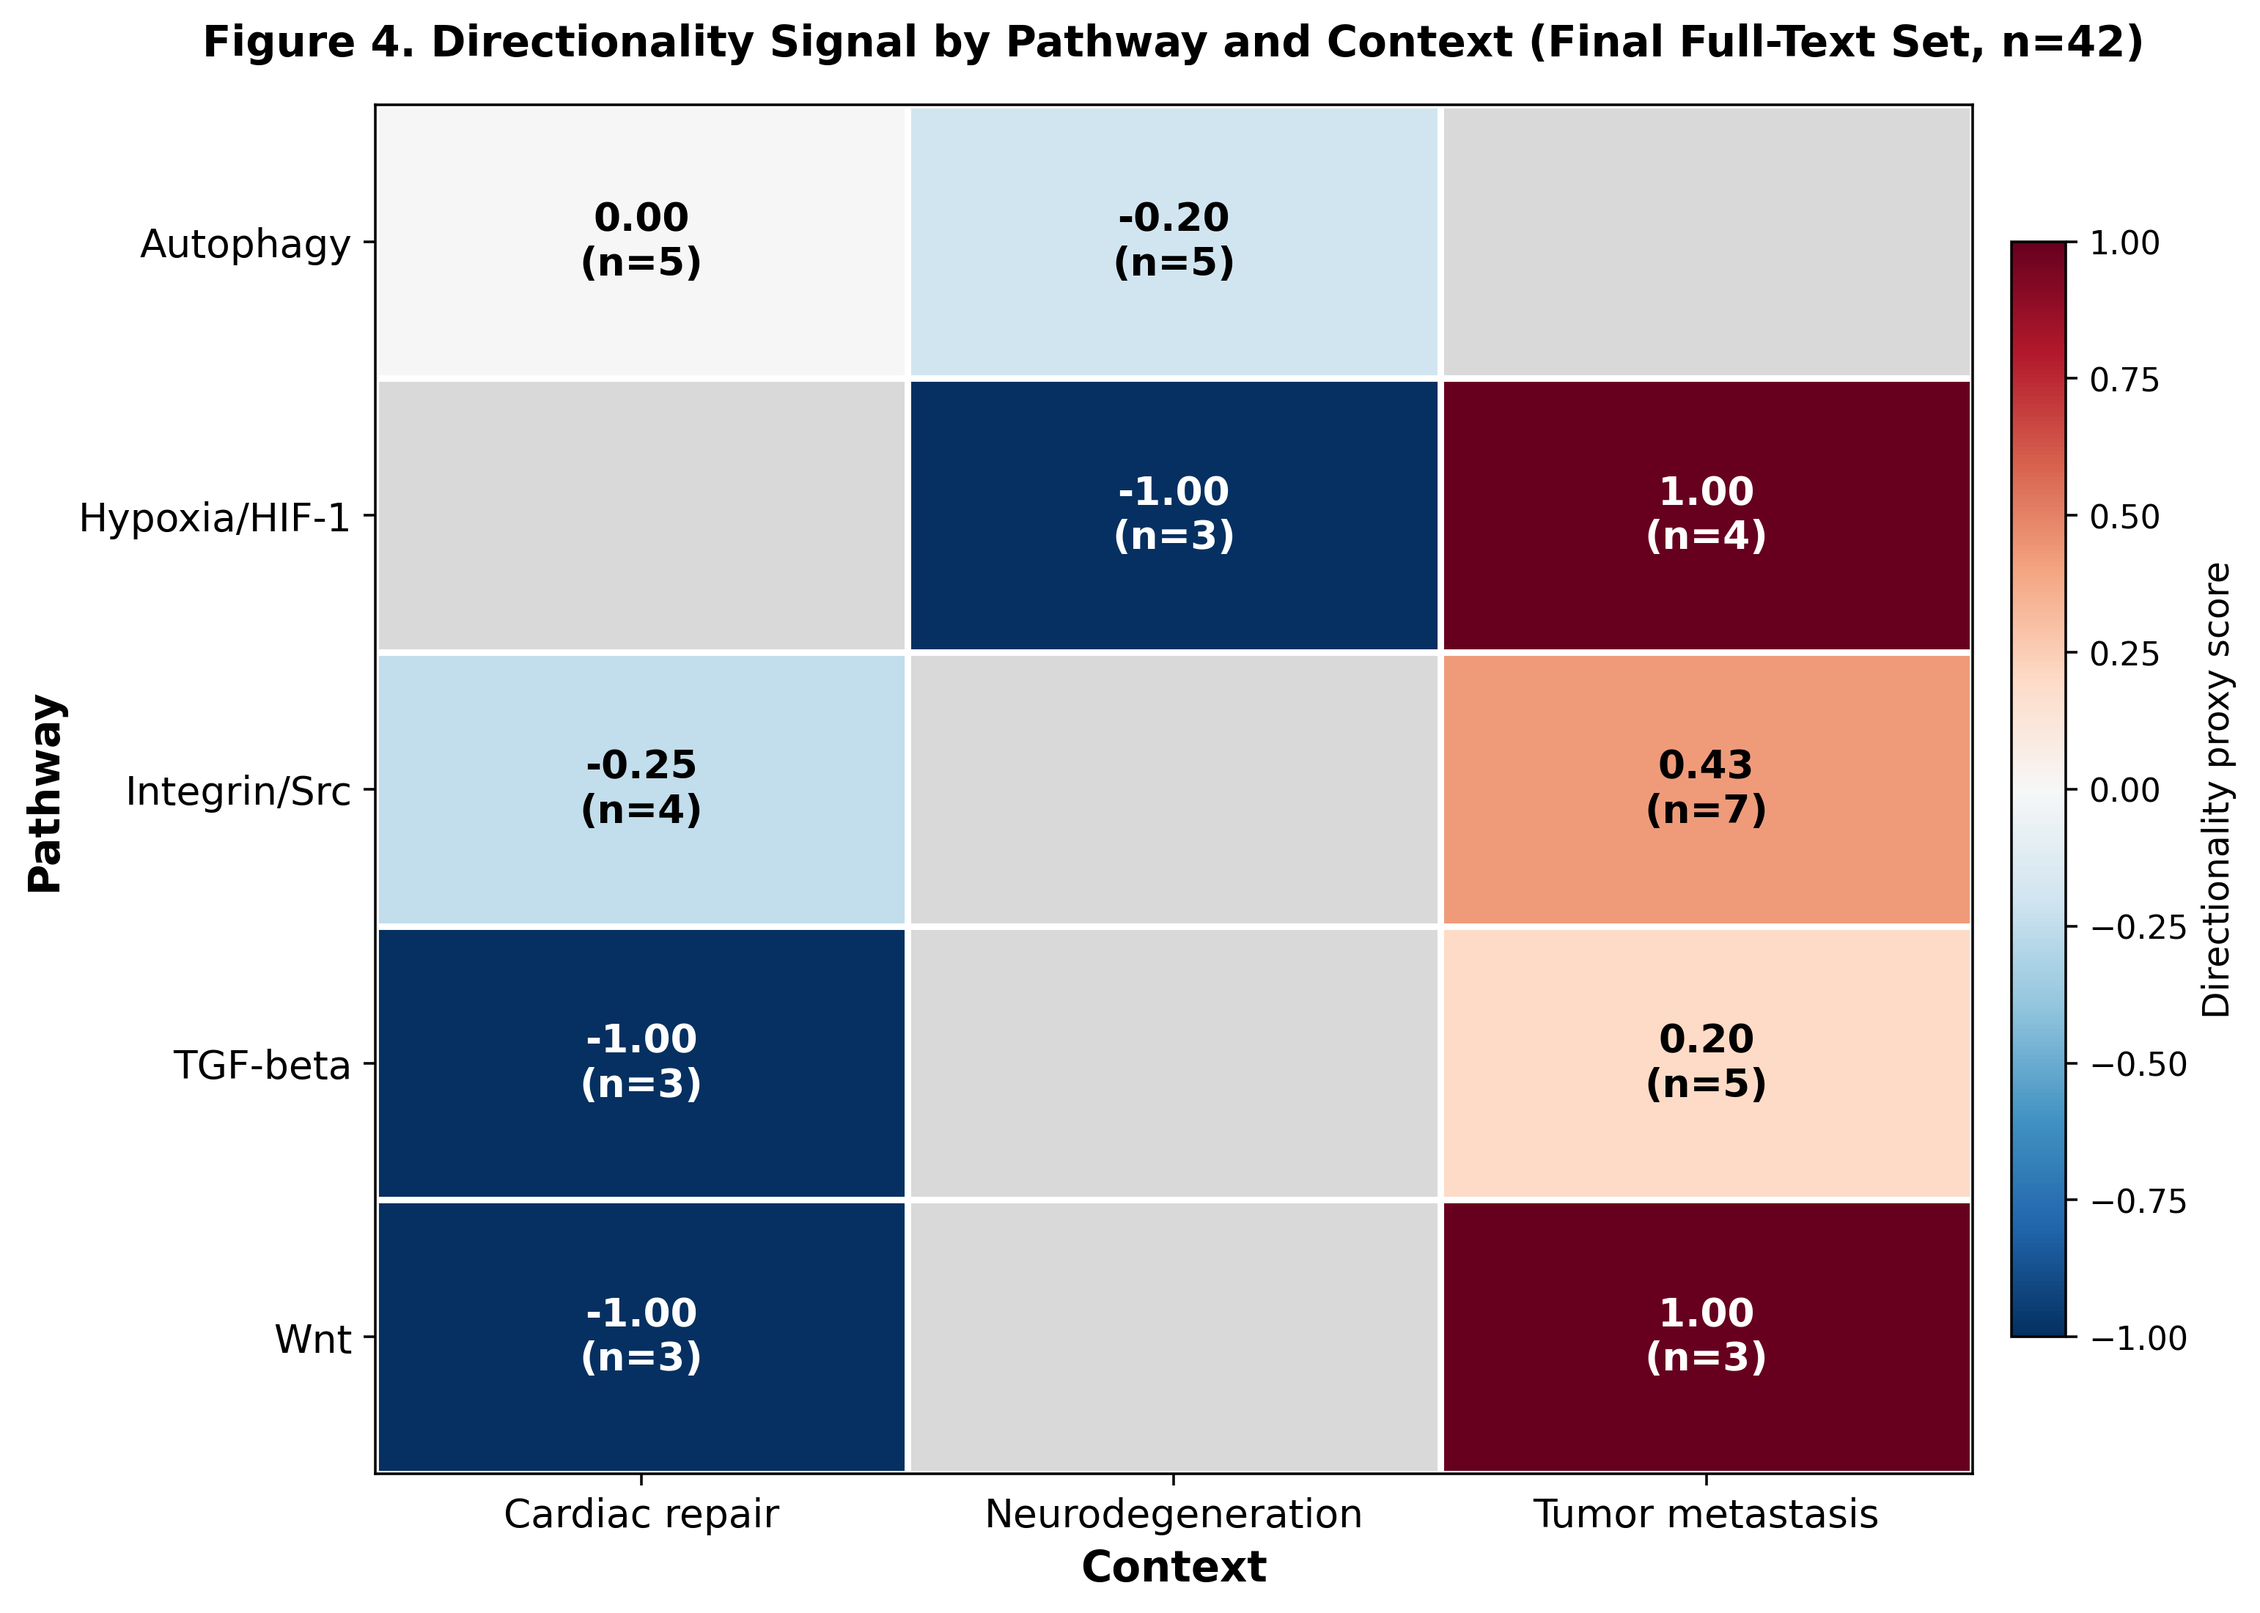
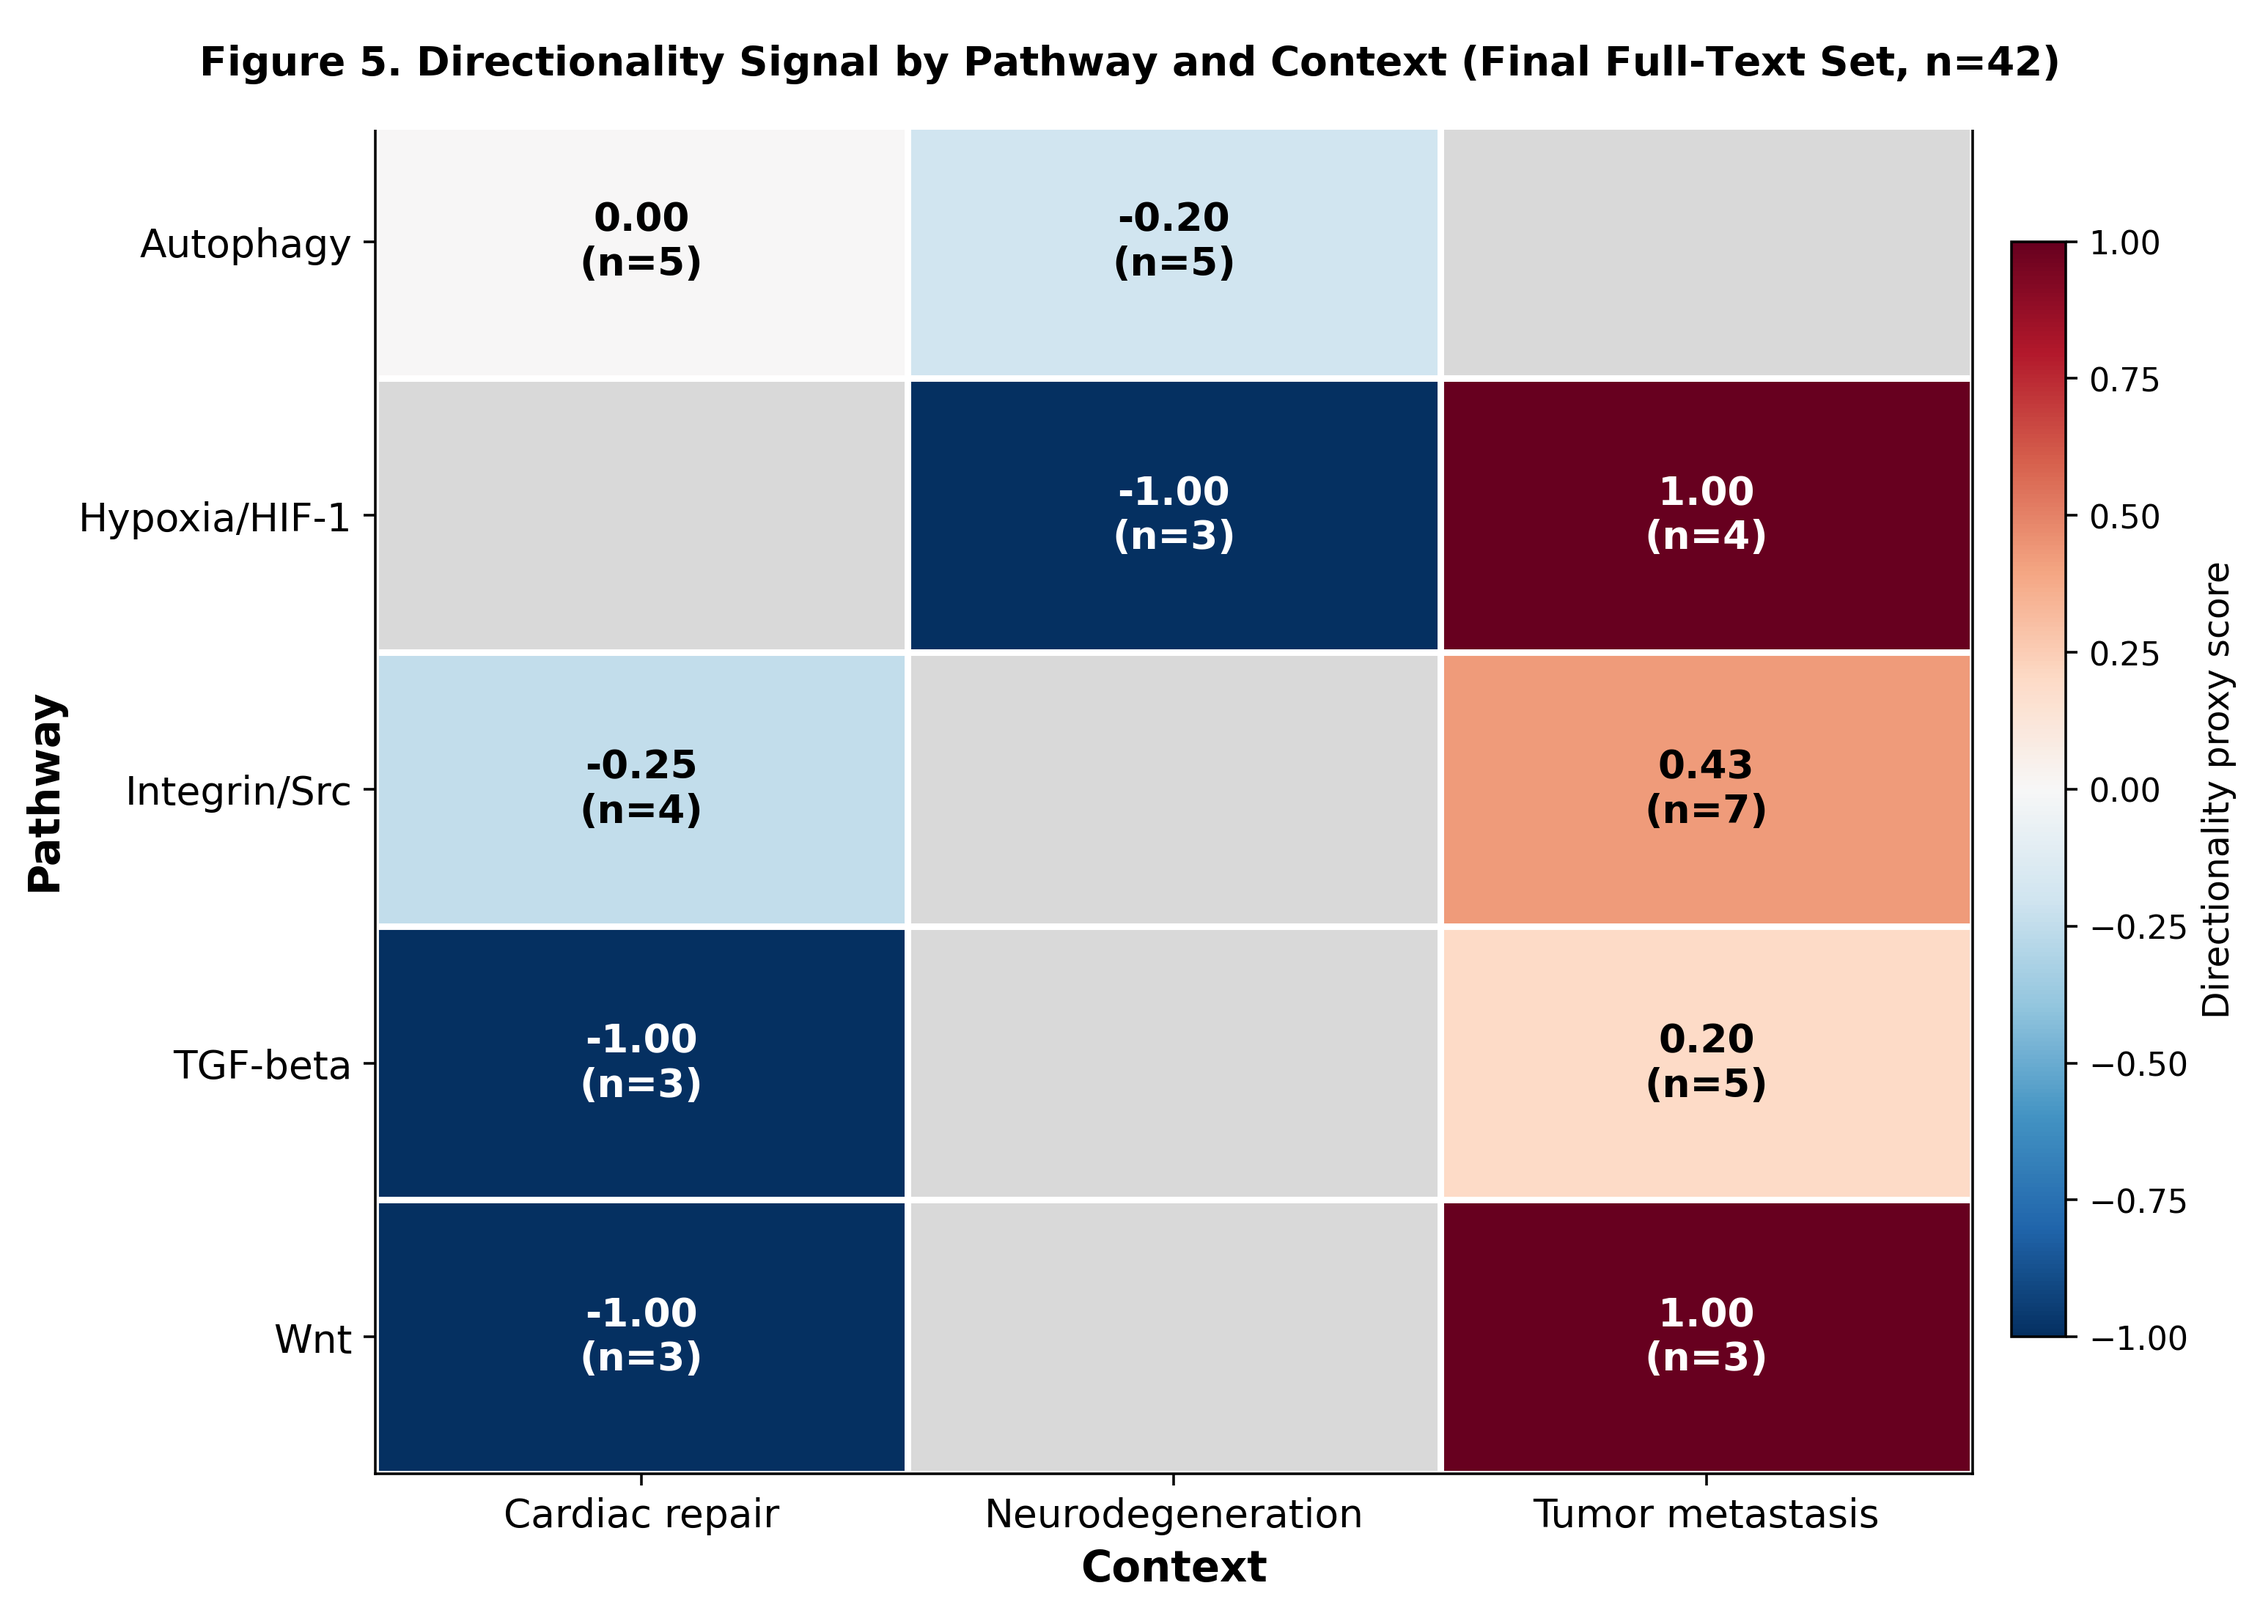
Sync public supplement and figure corrections

Changed region(s): [[0.0934, 0.0, 0.9653, 0.0927]]

diff --git a/scripts/sensitivity_threshold_and_cardiac_relaxation.py b/scripts/sensitivity_threshold_and_cardiac_relaxation.py
@@ -20,6 +20,7 @@ from __future__ import annotations
 
 import argparse
 import json
+import math
 import time
 from pathlib import Path
 from typing import Dict
@@ -29,6 +30,19 @@ import requests
 
 ROOT = Path(__file__).resolve().parent.parent
 SUPP = ROOT / "supplement"
+
+TABLE_S12_ORDER = [
+    "Integrin/Src",
+    "Autophagy",
+    "TGF-beta",
+    "Wnt",
+    "Hypoxia/HIF-1",
+    "mTOR",
+    "Complement",
+    "NF-kB",
+    "Sphingolipid/Ceramide",
+    "Notch",
+]
 
 # PubMed E-utilities configuration
 BASE = "https://eutils.ncbi.nlm.nih.gov/entrez/eutils"
@@ -119,10 +133,20 @@ def compute_continuous(
     counts: Dict[str, int],
     smoothing: float = 1.0,
 ) -> float:
-    """Continuous variant: raw smoothed ratio without hard maturity cutoff."""
+    """Continuous maturity variant with log-scaled donor-context weighting.
+
+    Below the 100-record maturity target, the raw smoothed ratio is downweighted
+    by log(max_count + smoothing) / log(100), capped at 1.0 once the largest
+    context reaches the maturity target. This reproduces the submitted Table S12.
+    """
     max_count = max(counts.values())
     min_count = min(counts.values())
-    return (max_count + smoothing) / (min_count + smoothing)
+    ratio = (max_count + smoothing) / (min_count + smoothing)
+    maturity_weight = min(
+        math.log(max_count + smoothing) / math.log(100.0),
+        1.0,
+    )
+    return ratio * maturity_weight
 
 
 # ---------------------------------------------------------------------------
@@ -152,7 +176,7 @@ def build_threshold_sensitivity() -> pd.DataFrame:
         entry["priority_continuous"] = round(compute_continuous(counts, smoothing=1.0), 2)
         rows.append(entry)
 
-    df = pd.DataFrame(rows).sort_values("priority_threshold_100", ascending=False)
+    df = pd.DataFrame(rows).set_index("pathway").loc[TABLE_S12_ORDER].reset_index()
     df.to_csv(ROOT / "sensitivity_priority_threshold.csv", index=False)
     print("Saved: sensitivity_priority_threshold.csv")
     print(df.to_string(index=False))
